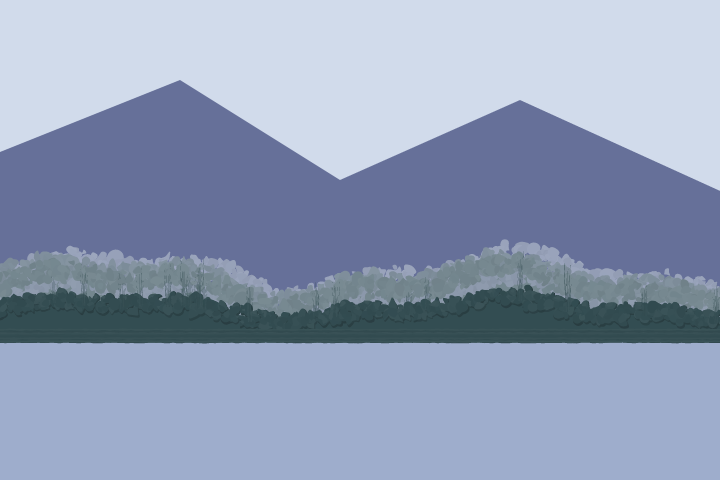
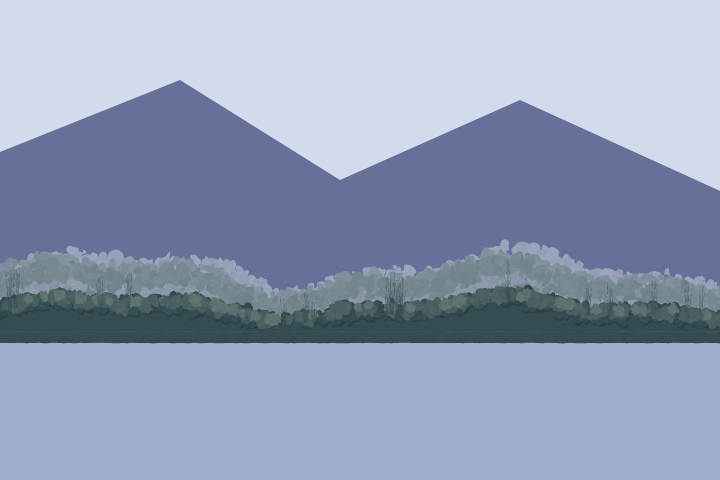
landscape cookbook: light the far wood's crest with pkscumblein /Light (recipe 5) (#383) (#389)
* landscape cookbook: light the far wood's crest with pkscumblein /Light (recipe 5) (#383)

Claude-Session: https://claude.ai/code/session_01GTbCLDB6QC7UV1i7qukUEL

* cookbook recipe 5: reword the washed-out and Reach advice to match the snippet (#383)

Claude-Session: https://claude.ai/code/session_01GTbCLDB6QC7UV1i7qukUEL

---------

Changed region(s): [[0.4278, 0.5938, 1.0, 0.6875], [0.0, 0.5938, 0.3972, 0.6875]]

diff --git a/docs/guides/landscape-cookbook.md b/docs/guides/landscape-cookbook.md
@@ -325,21 +325,29 @@ grestore
 
 ![Two rows of tapped forest along a far shore](landscape/forest.png)
 
-**Tools.** A filled mass, `pkdab` for the tapped crest, `pkfan` for the spires, `pkbroad` for the band along the shore, `pkwet` for the back row's softness.
+**Tools.** A filled mass, `pkdab` for the tapped crest, `pkscumblein` with `/Light` (issue #345) and `pkdab` for the crest's lit side, `pkfan` for the spires, `pkbroad` for the band along the shore, `pkwet` for the back row's softness.
 
-**Order.** The back row (paler, softened), the front row (darker, crisp): the mass, its tapped crest, the spires standing out of it, and the band along the shore.
+**Order.** The back row (paler, softened), the front row (darker, crisp): the mass, its tapped crest, the light along the crest, the spires standing out of it, and the band along the shore.
 
 **Key idea.** **A far forest is a filled mass with a tapped crest**, not a thousand trees. The mass is a plain fill under a crest path; the crest is `pkdab` with `/Size` 2, `/Scatter` 4 and `/Density` 4 along that same path, which makes the fuzzy edge that reads as foliage. A distant forest is an edge, not a texture.
+
+**The crest's light** (issue #383). A wood against a glowing sky is backlit: a dark mass with a thin, broken light along its top edge where the glow catches the leaves, and none inside. The mass is a region (its crest path closed down to the waterline, then `scpath`), and `pkscumblein /Light 90` keeps only the circles along its top edge, following every hump of the crest, a small `pkdab` clump on each. Two passes, as in recipes 2 and 7: a half-light (`/Reach 0.17 /Feather 0.8`), then a core right at the edge (`/Reach 0.07`, smaller circles and dabs). Both loads are a mix of the body and a pale, slightly warm glow, so the light stays close to the body's value: the front row must stay darker than the back row, or the light reads as haze and the two rows fuse.
 
 **Settings.**
 - Put a crest function (`foothill` in the snippet) in a named procedure and have the mass, the crest and the spires all use it, so they agree.
 - The back row's crest is `0.95` times the front crest's height, in a colour half mixed toward the mist; wrap its crest in `pkwet /Soft 0.6` with `/Under` the colour of what is really behind it (the half-faded range foot), not the mist itself, which would leave a pale rim around the forest.
-- The front row is one colour throughout and left crisp. The contrast between a softened back and a crisp front is what puts air between the two.
+- The front row is one body colour, with its light only along the crest, and left crisp. The contrast between a softened back and a crisp front is what puts air between the two. The back row takes no lit pass: it is the paler, hazier plane, and its edge is already the lightest thing in the wood.
+- Lift the lit region by 2 pt (`gsave 0 2 translate` around the lit passes). The tapped crest's dabs (`/Scatter 4`) stand above the fill's edge, so a region on the fill's edge puts the light under a dark rim: a light line under a dark outline, not a lit crest.
+- `/Reach` is a fraction of the region's depth along the light, which is the mass's whole height (about 22 pt), so where the crest dips to 9 pt a deep reach lights it all the way down. Keep the half-light shallow (0.17, about 4 pt) and the core shallower, or the whole front row is lit and the dark mass is lost.
+- Dab size sets the look: `/Size 1.4 /Scatter 1` is a clump about 4 pt across. At `/Size 1.9 /Scatter 1.8` the clumps read as grey bubbles stuck on the mass.
 - `pkfan` spires: `/Width 5 /Bristles 10 /Splay 0.9 /Ragged 0.5 /Flick 0.9`; a few, at random positions along the crest.
 
 **Failures.**
 - *A ruled, flat edge on the mass.* Always a tapped crest over a filled mass, never the fill alone. The fill's edge is a vector line; for a forest the tapped dabs are the right break, since they read as foliage. A mass that is not foliage (a meadow, a bare bank) takes `pkbrushedge` instead (recipe 10).
 - *A pale rim round the back row.* `/Under` is wrong; see above.
+- *A washed-out front row.* The lit load is too light, the band too deep or the clumps too big, so the front row matches the back row in value. Keep the loads close to the body (the snippet's are 40% and 80% of the way to a glow that is itself only 35% of the way to a pale colour), keep `/Reach` under 0.2, and keep the dabs small.
+- *Lit bubbles instead of a lit crest.* Too few circles (`/Count` is over the whole region and the band holds a fraction of it, so a thin band needs hundreds) or dabs too big. A lone clump reads as a spot, as on a bush.
+- *The light under a dark rim.* The lit region is not lifted over the tapped crest; see the settings.
 
 ```postscript
 % recipe: forest
@@ -369,12 +377,34 @@ BACK aload pop setrgbcolor 0.95 mass
 { 0.95 crest << /Size 2.2 /Scatter 5 /Density 4 /Shadow 0 /Highlight 0 /Irregular 1 >> pkdab }
 << /Soft 0.6 /Under [ RANGE MIST 0.5 mix3 ] >> pkwet
 
-% 2. The front row: one colour throughout, left crisp. The mass, its tapped
-%    crest, a few spires standing out of it, and a band along the shore.
+% 2. The front row: one body colour, left crisp. The mass, its tapped crest,
+%    the crest's lit side (below), a few spires standing out of it, and a
+%    band along the shore.
 LINE aload pop setrgbcolor
 0.55 mass
 0.55 crest
 << /Size 2 /Scatter 4 /Density 4 /Shadow 0.3 /Highlight 0.08 /Irregular 1 >> pkdab
+
+% 2b. The crest's lit side. The sky glow is above the wood, so the light
+%    comes from 90, and a backlit wood is a dark mass with a thin, broken
+%    light along its top edge, not a lit band. The mass is a region, and
+%    /Light keeps only the circles along its top edge, a small clump of
+%    dabs on each, in a load close to the body's value. The region is lifted
+%    2 pt so the dabs sit on the tapped crest (whose dabs stand above the
+%    fill's edge), not under it.
+/GLOW [ LINE [ 0.80 0.82 0.74 ] 0.35 mix3 ] def       % the sky glow, a shade warmer than the sky
+/lit_mass { 0.55 crest 370 WL lineto -10 WL lineto closepath scpath } def
+gsave 0 2 translate
+[ LINE GLOW 0.4 mix3 ] aload pop setrgbcolor
+lit_mass
+<< /Count 700 /Radius 1.6 /Light 90 /Reach 0.17 /Feather 0.8 >> pkscumblein
+<< /Size 1.4 /Scatter 1 /Density 3 /Irregular 1 /Highlight 0.15 /Shadow 0 /Light 90 /HighlightColor GLOW >> pkdab
+[ LINE GLOW 0.8 mix3 ] aload pop setrgbcolor
+lit_mass
+<< /Count 900 /Radius 1.2 /Light 90 /Reach 0.07 /Feather 1 >> pkscumblein
+<< /Size 1.1 /Scatter 0.8 /Density 3 /Irregular 1 /Highlight 0.3 /Shadow 0 /Light 90 /HighlightColor GLOW >> pkdab
+grestore
+LINE aload pop setrgbcolor                  % back to the body's colour for the spires and the band
 0 1 18 { pop
   /fo_x 360 chance def  /fo_t fo_x foothill 0.55 mul WL add def
   newpath fo_x fo_t 2 sub moveto fo_x fo_t 12 add 14 chance add lineto

diff --git a/notes/383-far-wood-crest-light.md b/notes/383-far-wood-crest-light.md
@@ -1,0 +1,53 @@
+## Light the far wood's crest (issue #383, 2026-10-14)
+
+Recipe 5 (the far forest) painted its front row's crest with no lit side;
+#345 gave `pkscumblein` `/Light`, `/Reach` and `/Feather`, and #347 had
+been reworking the recipe's edge first. Recipe 5 now lights the crest the
+way recipes 2 and 7 light a mass. Docs only: `lib/` is untouched, and only
+`docs/guides/landscape/forest.png` was regenerated (the test rewrites all
+eleven; the other ten came out byte-identical).
+
+**What painters do.** A wood against a glowing sky is backlit (contre-jour):
+a dark mass with a thin, broken light along its top edge where the glow
+catches the leaves, and nothing inside. The brightest values sit on the
+outline, the interior keeps its value, and distant planes turn hazy and
+warm. Two mistakes to avoid: lighting the whole mass (it reads as haze and
+fuses with the back row) and lighting evenly all along the edge. So the
+light is two shallow passes, in loads close to the body.
+
+**What was built.** After the front row's tapped crest, the mass is a
+region (`0.55 crest` closed down to the waterline, `scpath`) and two
+`pkscumblein /Light 90` passes with a small `pkdab` clump on each circle:
+a half-light (`/Reach 0.17 /Feather 0.8`, a load 40% from the body toward
+the glow) and a core (`/Reach 0.07 /Feather 1`, smaller circles and dabs,
+80%). The glow is the body mixed 35% toward a pale, slightly warm
+`[0.80 0.82 0.74]`, close to the sky's value but not its cool hue. The back
+row takes no pass: it is the paler, hazier plane.
+
+**What only showed in renders.**
+
+- First draft mixed toward the sky the wrong way round (`SKY LINE 0.25
+  mix3` is 75% sky) and the front row came out lighter than the back row.
+- The region's depth is its whole height (about 22 pt), so where the crest
+  dips to 9 pt even `/Reach 0.28` lit the whole front row. 0.17 and 0.07 keep it a rim.
+- `pkdab /Size 1.9 /Scatter 1.8` painted grey bubbles; 1.4/1 and 1.1/0.8
+  paint a clump about 4 pt across. A thin band needs hundreds of circles
+  because `/Count` is over the whole region (700 and 900 here).
+- The tapped crest's dabs (`/Scatter 4`) stand above the fill's edge, so a
+  region on the fill's edge put the light under a dark rim. A scaled crest
+  (`0.64 crest`) fixed it but lifts high humps 3.6 pt and low dips 1.4 pt,
+  and breaks the recipe's "mass, crest and spires agree" rule, so the lit
+  passes run under `gsave 0 2 translate`, a constant lift.
+- The first drafts left the colour set to the light's load, so the spires
+  and the shore band came out light. The lit passes now sit in a `gsave`,
+  and `grestore` puts the body colour back; the `LINE aload pop setrgbcolor`
+  line before the spires is belt and braces.
+- The lit passes use random draws, so the spires land in different places
+  after than before. That is the stream moving, not a change to the spires.
+
+**Cost.** 0.46 s of CPU before, 0.72 s after (CLI, user time); budget 2 s.
+The test's negative check (`PSCAT_TEST_BUDGET_SCALE=0.001`) still fails the
+budget test as it should. The snippet runs under Ghostscript with clean
+stderr (spires heavier, no antialiasing, as for the other recipes).
+
+**Deferred.** Nothing new. The Evening Stream recipe-2 mismatch is #384.
